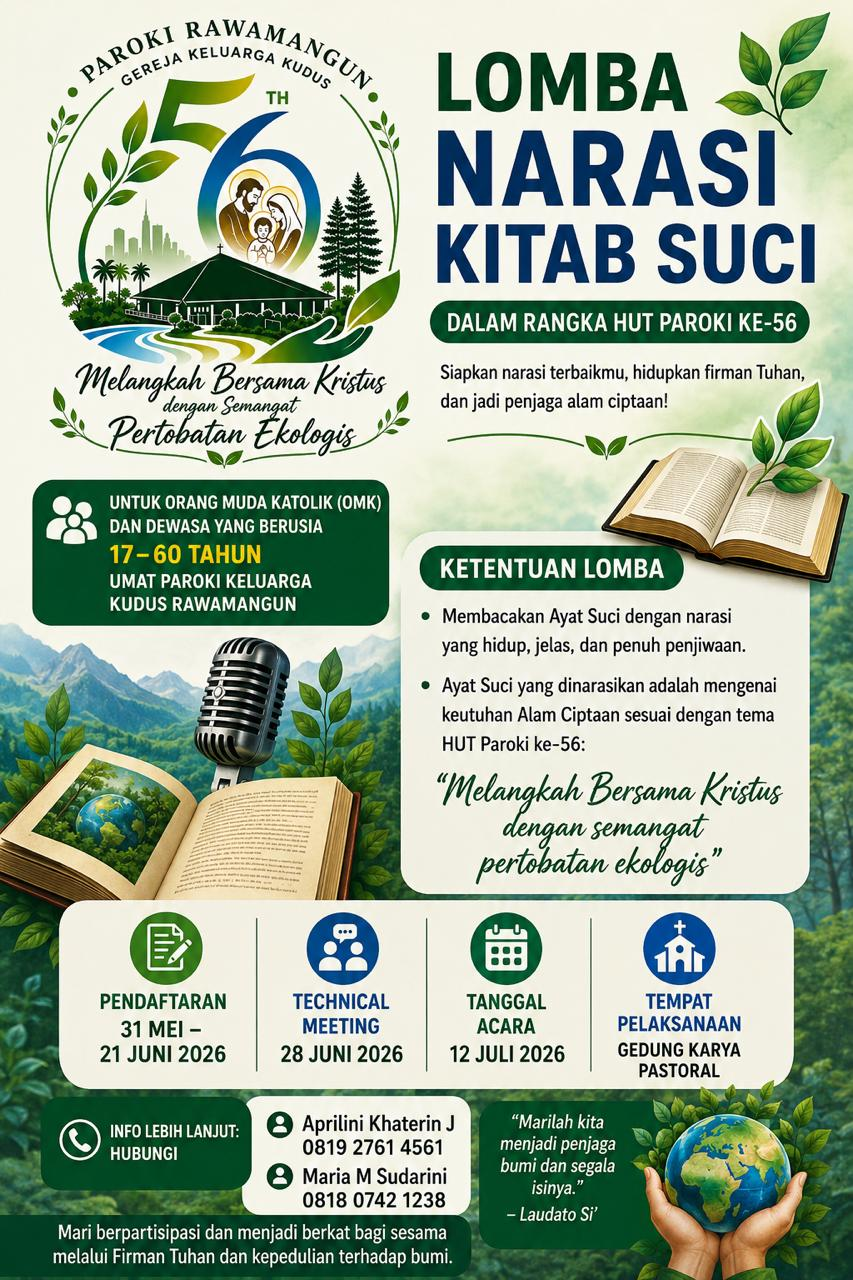
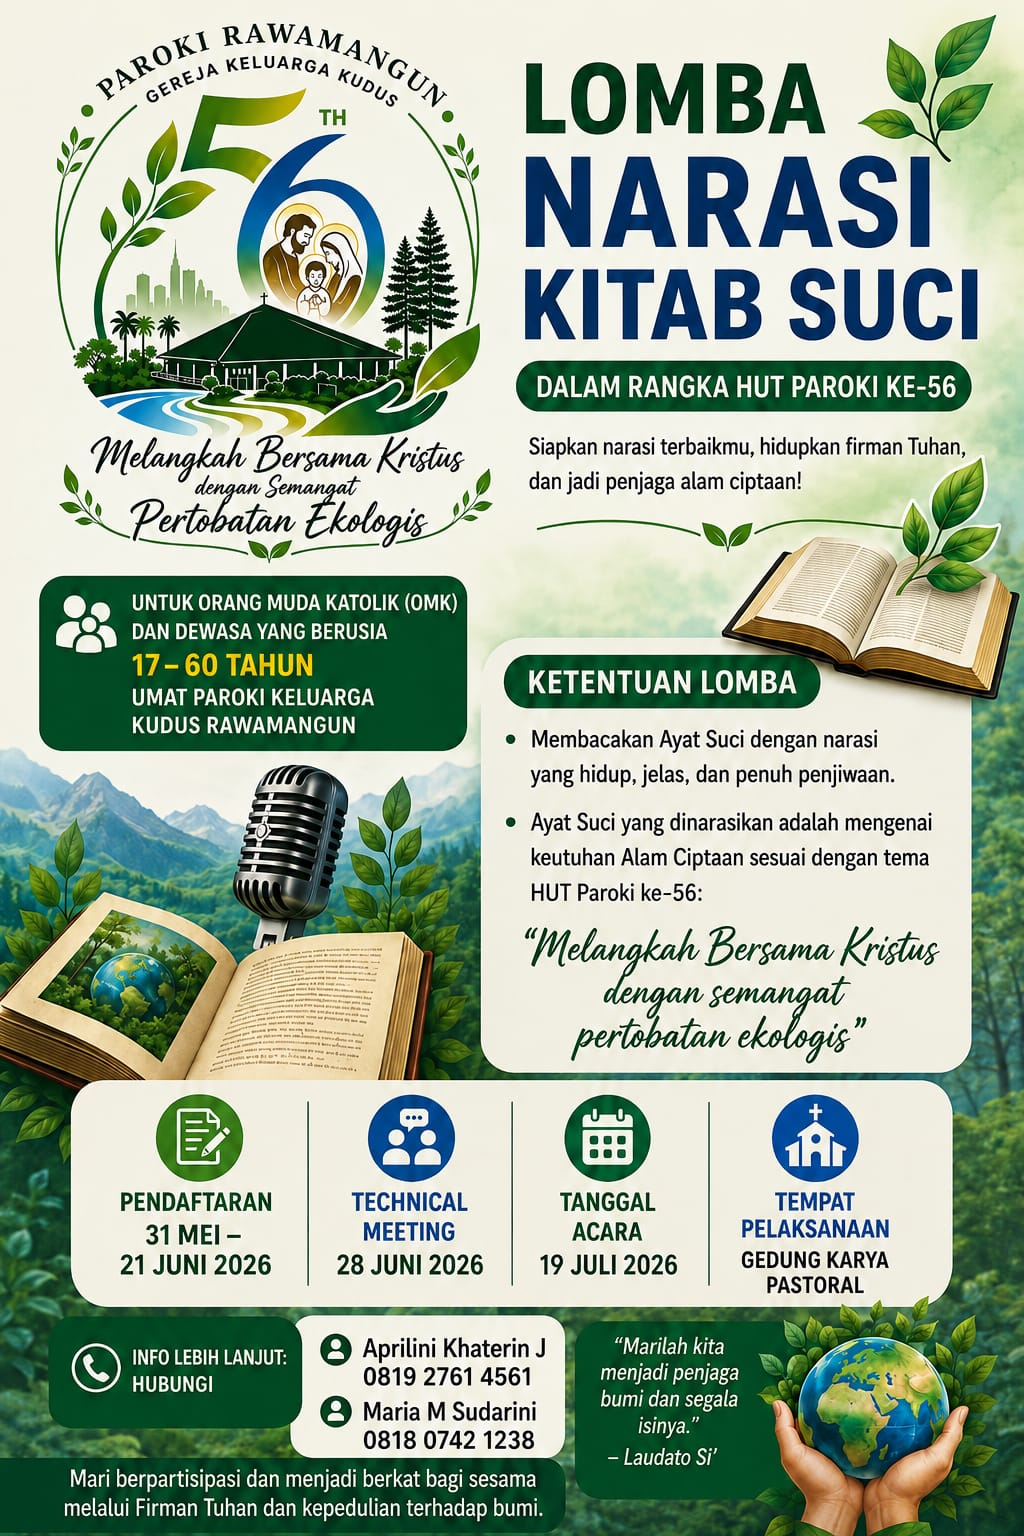
Update lomba narasi kitab suci

diff --git a/js/main.js b/js/main.js
@@ -26,11 +26,11 @@ const acara=[
  {d:"5 Juli 2026",t:"Lomba Mewarnai Anak",l:"Kelas Tarakanita",c:"lomba",ic:"brush",k:"peach",pk:"mewarnai"},
  {d:"11 Juli 2026",t:"Lomba Paduan Suara",l:"Paroki Rawamangun, Gereja Keluarga Kudus",c:"lomba",ic:"music",k:"mint",pk:"padus"},
  {d:"12 Juli 2026",t:"Lomba Story Telling Anak",l:"Paroki Rawamangun, Gereja Keluarga Kudus",c:"lomba",ic:"book",k:"blue",pk:"storytelling"},
- {d:"12 Juli 2026",t:"Lomba Narasi Kitab Suci",l:"GKP Lantai 1",c:"lomba",ic:"bible",k:"lemon",pk:"narasi"},
  {d:"12 Juli 2026",t:"Lomba Got Talent",l:"GKP Lantai 3",c:"lomba",ic:"star",k:"lilac",pk:"got-talent"},
  {d:"17 Juli 2026 · Pengumpulan",t:"Lomba Short Movie Wilayah — Remaja",l:"Pengumpulan Karya",c:"lomba",ic:"film",k:"blue",pk:"short-movie"},
  {d:"18 Juli 2026",t:"Seminar Sarasehan Keluarga",l:"GKP Lantai 3",c:"rohani",ic:"people",k:"rose",pk:"seminar"},
  {d:"18 Juli 2026 · Pengumpulan",t:'Lomba Video "Bible in Daily Life"',l:"Pengumpulan Karya",c:"lomba",ic:"film",k:"peach",pk:"video-bible"},
+ {d:"19 Juli 2026",t:"Lomba Narasi Kitab Suci",l:"GKP Lantai 1",c:"lomba",ic:"bible",k:"lemon",pk:"narasi"},
  {d:"19 Juli 2026",t:"Lomba Bible Talent Show",l:"Paroki Rawamangun, Gereja Keluarga Kudus",c:"lomba",ic:"bible",k:"mint",pk:"bible-talent"},
  {d:"19 Juli 2026",t:"Lomba Family Bible",l:"GKP Lantai 2",c:"lomba",ic:"book",k:"blue",pk:"family-bible"},
  {d:"19 Juli 2026",t:"Bazar UMKM",l:"Area Gereja",c:"sosial",ic:"shop",k:"lemon",pk:"bazar"},
@@ -49,11 +49,11 @@ const posters=[
  {key:"mewarnai",img:"images/content/[BIA BIR] lomba mewarnai.jpeg",t:"Lomba Mewarnai Anak",s:"TK",form:"https://forms.gle/9g4jB4DHPbfeXEsB7"},
  {key:"padus",img:"images/content/[liturgi] LOMBA PADUS.png",t:"Lomba Paduan Suara",s:"Antar Wilayah",form:"https://daftarlombapaduansuarahutgkkr56.my.canva.site/"},
  {key:"storytelling",img:"images/content/[BIAR BIR story telling].jpeg",t:"Lomba Story Telling Anak",s:"SD Kelas 1 – 3",form:"https://forms.gle/u6n2EQCAPU8amGnH6"},
- {key:"narasi",img:"images/content/[kks]lomba narasi kitab suci .jpeg",t:"Lomba Narasi Kitab Suci",s:"OMK & Dewasa 17 – 60",form:"https://docs.google.com/forms/d/e/1FAIpQLSftY6Wk6q2VDXgUPxT0sjj6AT53Cs5DR4DrY5Uu1EGjBO0ryQ/viewform"},
  {key:"got-talent",img:"images/content/[OMK] got talent.jpeg",t:"Lomba Got Talent",s:"Anak, OMK, Dewasa",note:"Daftar via Koordinator Wilayah masing-masing"},
  {key:"short-movie",img:"images/content/[BIA BIR] short movie.jpeg",t:"Lomba Short Movie",s:"Wilayah — Remaja",form:"https://forms.gle/16EYc58SyrCpTzBa7"},
  {key:"seminar",img:"images/content/[SKK] Seminar Keluarga.jpg",t:"Seminar Sarasehan Keluarga",s:"Keluarga"},
  {key:"video-bible",img:"images/content/[KKS]lomba video bible in daily life .jpeg",t:'Lomba Video "Bible in Daily Life"',s:"Antar Lingkungan",form:"https://docs.google.com/forms/d/e/1FAIpQLScTNEf-SUqTaVHIWIueHflKL-TZ4B4j38H04jwcGDMEcVkz2w/viewform"},
+ {key:"narasi",img:"images/content/[kks]lomba narasi kitab suci .jpeg",t:"Lomba Narasi Kitab Suci",s:"OMK & Dewasa 17 – 60",form:"https://docs.google.com/forms/d/e/1FAIpQLSftY6Wk6q2VDXgUPxT0sjj6AT53Cs5DR4DrY5Uu1EGjBO0ryQ/viewform"},
  {key:"bible-talent",img:"images/content/[KKS]bible talent show.jpeg",t:"Lomba Bible Talent Show",s:"Antar Wilayah",form:"https://docs.google.com/forms/d/e/1FAIpQLScYnRaDeLV1NnaVcke5G32xF4If9Ma9gsPrdMPp07b2sqv_hw/viewform"},
  {key:"family-bible",img:"images/content/[BIA BIR] family bible.jpeg",t:"Lomba Family Bible",s:"Keluarga",form:"https://docs.google.com/forms/d/e/1FAIpQLSfy266kOWUQkVb9mebwR2r8rh8qqhodHjii4XoKftPjduMMWw/viewform"},
  {key:"bazar",img:"images/content/[PSE]bazaar UMKM.jpeg",t:"Bazar UMKM",s:"Umum"},
